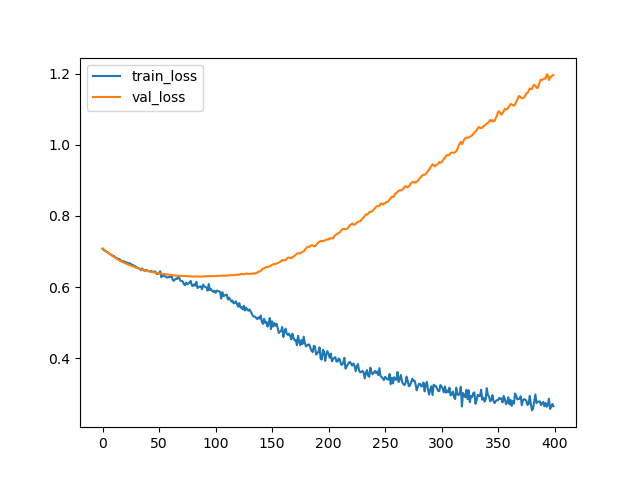
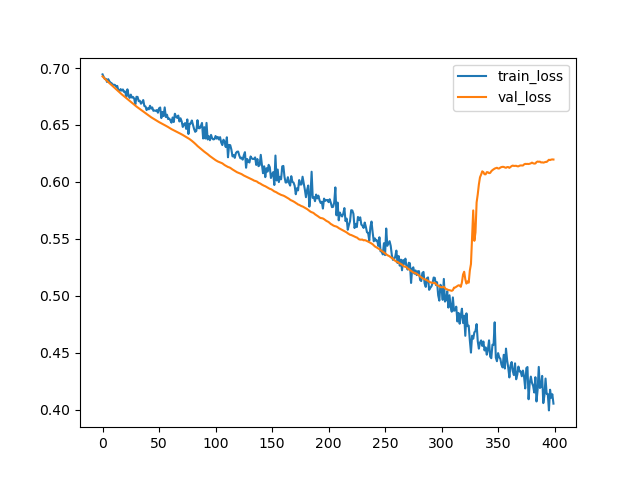
overfitting so badly lstm(64,2) dropout .3 in lstm layer dropout .3 out of lstm layer .00001 lr

diff --git a/LSTM.py b/LSTM.py
@@ -76,11 +76,11 @@ class LSTM(nn.Module):
         self.linear = nn.Linear(hide_dim, 1)
         self.sigmoid = nn.Sigmoid()
         self.dropout = nn.Dropout(0.1)
-        self.dropout2 = nn.Dropout(0.3)
+        self.dropout2 = nn.Dropout(0.1)
 
     def forward(self, x):
         x, _ = self.lstm(x)
-        #x = self.dropout(x)
+        x = self.dropout(x)
         #linear is the dense layer here
         x = self.linear(x)
         x = self.dropout2(x)
@@ -299,10 +299,11 @@ def formatAndFold():
     labels_train = dataset['Class'].values
 
     # critical hyperparameters
-    epoch = 400
+    epoch = 300
     ksplits = 5
-    learning_rate = 0.00001
+    #learning_rate = 0.000001
     #learning_rate = 0.0001
+    learning_rate = .00001
     allAveLoss = []
     allAveAcc = []
 
@@ -312,9 +313,10 @@ def formatAndFold():
     #shuffle is currently false, was previously true
     kfold = StratifiedKFold(n_splits=ksplits, shuffle=False)
     for train_index, test_index in kfold.split(smiles_train, labels_train):
-        model = LSTM(64, 2)
+        #changed from 64
+        model = LSTM(32, 2)
         optimizer = optim.Adam(model.parameters(), lr=learning_rate)
-        scheduler = lr_scheduler.LinearLR(optimizer, start_factor=1.0, end_factor=0.6, total_iters=75)
+        scheduler = lr_scheduler.LinearLR(optimizer, start_factor=1.0, end_factor=0.6, total_iters=300)
         loss_fn = torch.nn.BCELoss()
 
         fold = fold + 1
